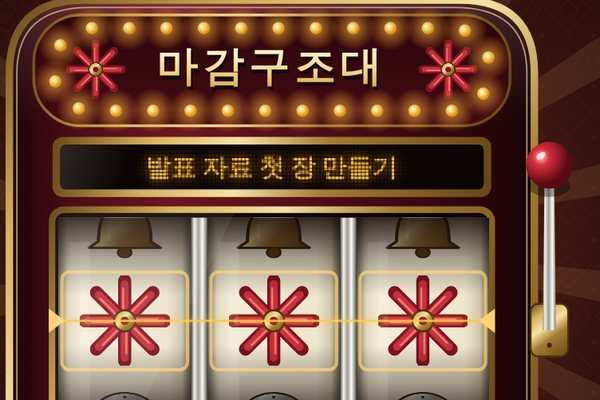
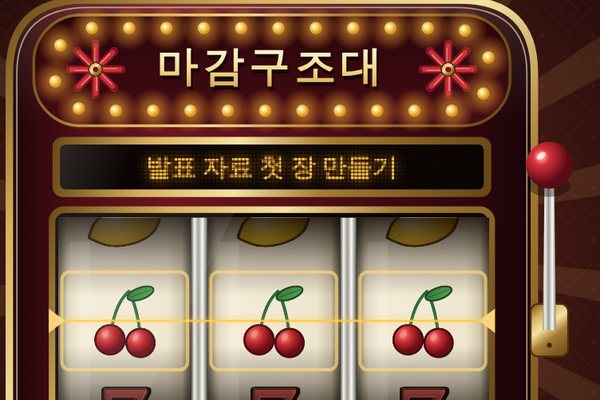
Replace slot reel symbols with cherry, lemon, grape, watermelon, bell and seven
Claude-Session: https://claude.ai/code/session_01SQ2MVumb5cP1juw9G6wjPu

diff --git a/slot.js b/slot.js
@@ -9,7 +9,7 @@
   const SERIF = '"Noto Serif KR","AppleMyungjo","Batang",Georgia,serif';
   // 기계 하나의 설계 좌표: 캐비닛 중심이 x=0, 오른쪽 레버까지 포함해 가로 -290~350.
   const MW = 640, MH = 610, MID = 30;
-  const N = 7;           // 릴 한 바퀴의 그림 수
+  const N = 6;           // 릴 한 바퀴의 그림 수
   const CELL = 110;      // 그림 하나의 높이
   const REEL_Y = 342;    // 당첨선 높이
   const TS = .12, STOPS = [.44, .56, .68];
@@ -28,63 +28,84 @@
   const brass = (c, x0, y0, x1, y1) => lin(c, x0, y0, x1, y1, [[0, '#6a4917'], [.22, '#d8b25e'], [.42, '#f6e2a3'], [.62, '#a57b33'], [1, '#664616']]);
   const chrome = (c, x0, y0, x1, y1) => lin(c, x0, y0, x1, y1, [[0, '#5b5b58'], [.2, '#f3f1ea'], [.45, '#9c9a93'], [.7, '#fbfaf4'], [1, '#62615c']]);
 
-  /* ---------- 릴 그림 (직접 그린 오리지널 도안) ---------- */
-  function drawSymbol(c, i) {
-    c.lineJoin = 'round'; c.lineCap = 'round';
-    if (i === 0) { // 마감구조대 별: 당첨 그림
-      for (let k = 0; k < 8; k++) {
-        const a = k * Math.PI / 4; c.save(); c.rotate(a);
-        c.strokeStyle = '#7d1320'; c.lineWidth = 25; c.beginPath(); c.moveTo(0, -8); c.lineTo(0, -76); c.stroke();
-        c.strokeStyle = '#c7303c'; c.lineWidth = 15; c.beginPath(); c.moveTo(0, -10); c.lineTo(0, -70); c.stroke();
-        c.strokeStyle = '#ee7a6e'; c.lineWidth = 4; c.beginPath(); c.moveTo(-3, -18); c.lineTo(-3, -62); c.stroke(); c.restore();
-      }
-      c.fillStyle = brass(c, -22, -22, 22, 22); c.beginPath(); c.arc(0, 0, 20, 0, TAU); c.fill();
-      c.strokeStyle = '#4a300c'; c.lineWidth = 4; c.stroke();
-      c.fillStyle = '#7d1320'; c.beginPath(); c.arc(0, 0, 8, 0, TAU); c.fill();
-    } else if (i === 1) { // 종
+  /* ---------- 릴 그림 (직접 그린 오리지널 도안): 체리·레몬·포도·수박·종·7 ---------- */
+  const OUT = '#2b1410';
+  function outline(c, w, col) { c.strokeStyle = col || OUT; c.lineWidth = w; c.stroke(); }
+  function leaf(c, x, y, rx, ry, rot) {
+    c.fillStyle = lin(c, x - rx, y, x + rx, y, [[0, '#2f7a3b'], [1, '#5aa854']]); c.beginPath(); c.ellipse(x, y, rx, ry, rot, 0, TAU); c.fill(); outline(c, 3.5, '#1c4a26');
+    c.strokeStyle = '#1c4a2688'; c.lineWidth = 2; c.beginPath(); c.moveTo(x - rx * Math.cos(rot) * .8, y - rx * Math.sin(rot) * .8); c.lineTo(x + rx * Math.cos(rot) * .8, y + rx * Math.sin(rot) * .8); c.stroke();
+  }
+  const SEVEN = 5;
+  const SYMBOLS = [
+    c => { // 체리
+      c.strokeStyle = '#2f6a3a'; c.lineWidth = 6; c.beginPath(); c.moveTo(-26, 22); c.quadraticCurveTo(-18, -34, 8, -56); c.moveTo(30, 30); c.quadraticCurveTo(24, -26, 8, -56); c.stroke();
+      leaf(c, 30, -52, 26, 11, -.35);
+      [[-28, 36, 28], [30, 42, 27]].forEach(([x, y, r]) => {
+        c.fillStyle = rad(c, x - 9, y - 10, 2, r + 4, [[0, '#f2766a'], [.5, '#c0262e'], [1, '#6d0e18']]); c.beginPath(); c.arc(x, y, r, 0, TAU); c.fill();
+        outline(c, 4, '#4b0911'); c.fillStyle = '#fff3'; c.beginPath(); c.ellipse(x - 9, y - 11, 6, 9, .5, 0, TAU); c.fill();
+      });
+    },
+    c => { // 레몬
+      c.save(); c.rotate(-.4);
+      c.beginPath(); c.moveTo(-74, 0); c.quadraticCurveTo(-68, -10, -58, -22); c.bezierCurveTo(-34, -54, 34, -54, 58, -22); c.quadraticCurveTo(68, -10, 74, 0);
+      c.quadraticCurveTo(68, 10, 58, 22); c.bezierCurveTo(34, 54, -34, 54, -58, 22); c.quadraticCurveTo(-68, 10, -74, 0); c.closePath();
+      c.fillStyle = rad(c, -14, -18, 4, 84, [[0, '#fff6a8'], [.45, '#f4c931'], [1, '#b6830f']]); c.fill(); outline(c, 5.5, '#4e3706');
+      c.fillStyle = '#fff9'; c.beginPath(); c.ellipse(-16, -24, 22, 7, -.15, 0, TAU); c.fill();
+      c.fillStyle = '#b6830f66'; [[-30, 10], [10, 18], [34, -2], [-6, -2], [46, 16], [-48, 2]].forEach(([x, y]) => { c.beginPath(); c.arc(x, y, 2, 0, TAU); c.fill(); });
+      c.restore(); leaf(c, 36, -48, 25, 10, -.5);
+    },
+    c => { // 포도
+      c.strokeStyle = '#5a3a1c'; c.lineWidth = 6; c.beginPath(); c.moveTo(2, -30); c.quadraticCurveTo(0, -52, 14, -64); c.stroke();
+      leaf(c, 38, -60, 26, 11, -.3);
+      [[-32, -8], [0, -12], [32, -8], [-16, 16], [16, 16], [0, 42]].forEach(([x, y]) => {
+        c.fillStyle = rad(c, x - 6, y - 7, 2, 24, [[0, '#d7a8f0'], [.45, '#8a45b8'], [1, '#3d1860']]); c.beginPath(); c.arc(x, y, 20, 0, TAU); c.fill(); outline(c, 3.5, '#2a0f45');
+        c.fillStyle = '#fff7'; c.beginPath(); c.ellipse(x - 7, y - 8, 5, 3.5, -.6, 0, TAU); c.fill();
+      });
+    },
+    c => { // 수박
+      const cy = -30, R = 74;
+      c.beginPath(); c.moveTo(-R, cy); c.arc(0, cy, R, Math.PI, 0, true); c.closePath();
+      c.fillStyle = lin(c, 0, cy, 0, cy + R, [[0, '#4aa04b'], [1, '#1f5f2c']]); c.fill(); outline(c, 6, '#173f1f');
+      c.beginPath(); c.moveTo(-R + 9, cy); c.arc(0, cy, R - 9, Math.PI, 0, true); c.closePath(); c.fillStyle = '#eef0c8'; c.fill();
+      c.beginPath(); c.moveTo(-R + 17, cy); c.arc(0, cy, R - 17, Math.PI, 0, true); c.closePath();
+      c.fillStyle = rad(c, 0, cy, 4, R, [[0, '#ff8a7a'], [.55, '#e8344a'], [1, '#b3182f']]); c.fill();
+      c.fillStyle = '#20100d'; [[-36, -4, .5], [-12, 14, .2], [14, -6, -.2], [30, 8, -.5], [-8, -16, .1]].forEach(([x, y, r]) => { c.beginPath(); c.ellipse(x, y, 4.5, 8, r, 0, TAU); c.fill(); });
+      c.strokeStyle = '#ffffff55'; c.lineWidth = 5; c.beginPath(); c.arc(0, cy, R - 3, Math.PI * .66, Math.PI * .86); c.stroke();
+    },
+    c => { // 종
       c.beginPath(); c.moveTo(-50, 38); c.bezierCurveTo(-50, -8, -42, -56, 0, -58); c.bezierCurveTo(42, -56, 50, -8, 50, 38);
       c.lineTo(68, 54); c.lineTo(-68, 54); c.closePath();
       c.fillStyle = brass(c, -60, -50, 60, 50); c.fill(); c.strokeStyle = '#3d2a10'; c.lineWidth = 6; c.stroke();
       c.strokeStyle = '#fff3c8aa'; c.lineWidth = 7; c.beginPath(); c.moveTo(-30, 28); c.bezierCurveTo(-30, -8, -26, -36, -8, -44); c.stroke();
       c.fillStyle = '#5a3d14'; c.beginPath(); c.arc(0, 66, 13, 0, TAU); c.fill(); c.strokeStyle = '#3d2a10'; c.lineWidth = 4; c.stroke();
       c.beginPath(); c.arc(0, -66, 8, 0, TAU); c.fillStyle = '#c99c46'; c.fill(); c.stroke();
-    } else if (i === 2) { // 보석
-      const P = [[-36, -46], [36, -46], [70, -12], [0, 64], [-70, -12]];
-      c.beginPath(); P.forEach(([x, y], k) => k ? c.lineTo(x, y) : c.moveTo(x, y)); c.closePath();
-      c.fillStyle = lin(c, -60, -46, 60, 64, [[0, '#4fc7b5'], [.5, '#1b8576'], [1, '#0b4a43']]); c.fill();
-      c.fillStyle = '#a5efe2aa'; c.beginPath(); c.moveTo(-36, -46); c.lineTo(36, -46); c.lineTo(20, -12); c.lineTo(-20, -12); c.closePath(); c.fill();
-      c.strokeStyle = '#06322e'; c.lineWidth = 3.5; c.beginPath(); c.moveTo(-70, -12); c.lineTo(70, -12); c.moveTo(-36, -46); c.lineTo(-20, -12); c.lineTo(0, 64); c.moveTo(36, -46); c.lineTo(20, -12); c.lineTo(0, 64); c.stroke();
-      c.beginPath(); P.forEach(([x, y], k) => k ? c.lineTo(x, y) : c.moveTo(x, y)); c.closePath(); c.lineWidth = 6; c.strokeStyle = '#0a3d38'; c.stroke();
-    } else if (i === 3) { // 체리
-      c.strokeStyle = '#2f6a3a'; c.lineWidth = 6; c.beginPath(); c.moveTo(-26, 22); c.quadraticCurveTo(-18, -34, 8, -56); c.moveTo(30, 30); c.quadraticCurveTo(24, -26, 8, -56); c.stroke();
-      c.fillStyle = '#3b8a49'; c.beginPath(); c.ellipse(30, -52, 26, 11, -.35, 0, TAU); c.fill(); c.strokeStyle = '#1d4a28'; c.lineWidth = 3.5; c.stroke();
-      [[-28, 36, 28], [30, 42, 27]].forEach(([x, y, r]) => {
-        c.fillStyle = rad(c, x - 9, y - 10, 2, r + 4, [[0, '#f2766a'], [.5, '#c0262e'], [1, '#6d0e18']]); c.beginPath(); c.arc(x, y, r, 0, TAU); c.fill();
-        c.strokeStyle = '#4b0911'; c.lineWidth = 4; c.stroke(); c.fillStyle = '#fff3'; c.beginPath(); c.ellipse(x - 9, y - 11, 6, 9, .5, 0, TAU); c.fill();
-      });
-    } else if (i === 4) { // 바
-      rr(c, -68, -34, 136, 68, 10); c.fillStyle = '#17100d'; c.fill(); c.lineWidth = 6; c.strokeStyle = brass(c, -68, -34, 68, 34); c.stroke();
-      c.fillStyle = '#efe6cf'; c.font = `900 46px ${SANS}`; c.textAlign = 'center'; c.textBaseline = 'middle';
-      if ('letterSpacing' in c) c.letterSpacing = '5px'; c.fillText('BAR', 2, 3); if ('letterSpacing' in c) c.letterSpacing = '0px';
-    } else if (i === 5) { // 7
-      c.font = `900 150px ${SERIF}`; c.textAlign = 'center'; c.textBaseline = 'middle';
-      c.lineWidth = 14; c.strokeStyle = '#2a0b0c'; c.strokeText('7', 0, 8);
-      c.fillStyle = lin(c, 0, -60, 0, 70, [[0, '#f1655a'], [.5, '#b81f2b'], [1, '#6d0f19']]); c.fillText('7', 0, 8);
-      c.lineWidth = 3; c.strokeStyle = '#ffcfa655'; c.strokeText('7', -2, 5);
-    } else { // 말굽
-      c.lineCap = 'butt'; c.lineWidth = 26; c.strokeStyle = '#2a2724'; c.beginPath(); c.arc(0, 6, 52, Math.PI * .76, Math.PI * 2.24); c.stroke();
-      c.lineWidth = 17; c.strokeStyle = chrome(c, -60, -50, 60, 50); c.beginPath(); c.arc(0, 6, 52, Math.PI * .76, Math.PI * 2.24); c.stroke();
-      c.fillStyle = '#2a2724';
-      for (let k = 0; k < 5; k++) { const a = Math.PI * (.96 + k * .27); c.beginPath(); c.arc(Math.cos(a) * 52, 6 + Math.sin(a) * 52, 3.2, 0, TAU); c.fill(); }
+    },
+    c => { // 7
+      c.font = `900 188px ${SERIF}`; c.textAlign = 'center'; c.textBaseline = 'middle';
+      c.lineWidth = 16; c.strokeStyle = '#2a0b0c'; c.strokeText('7', 0, 10);
+      c.fillStyle = lin(c, 0, -70, 0, 84, [[0, '#f1655a'], [.5, '#b81f2b'], [1, '#6d0f19']]); c.fillText('7', 0, 10);
+      c.lineWidth = 3; c.strokeStyle = '#ffcfa655'; c.strokeText('7', -2, 7);
     }
+  ];
+  function drawStar(c) { // 마퀴 장식으로만 쓰는 마감구조대 별
+    for (let k = 0; k < 8; k++) {
+      c.save(); c.rotate(k * Math.PI / 4);
+      c.strokeStyle = '#7d1320'; c.lineWidth = 25; c.beginPath(); c.moveTo(0, -8); c.lineTo(0, -76); c.stroke();
+      c.strokeStyle = '#c7303c'; c.lineWidth = 15; c.beginPath(); c.moveTo(0, -10); c.lineTo(0, -70); c.stroke();
+      c.strokeStyle = '#ee7a6e'; c.lineWidth = 4; c.beginPath(); c.moveTo(-3, -18); c.lineTo(-3, -62); c.stroke(); c.restore();
+    }
+    c.fillStyle = brass(c, -22, -22, 22, 22); c.beginPath(); c.arc(0, 0, 20, 0, TAU); c.fill();
+    c.strokeStyle = '#4a300c'; c.lineWidth = 4; c.stroke();
+    c.fillStyle = '#7d1320'; c.beginPath(); c.arc(0, 0, 8, 0, TAU); c.fill();
   }
   let sprites = null;
   function getSprites() {
     if (sprites) return sprites;
-    sprites = Array.from({ length: N }, (_, i) => {
+    const make = fn => {
       const cv = document.createElement('canvas'); cv.width = cv.height = 240;
-      const c = cv.getContext('2d'); c.translate(120, 120); c.scale(1.4, 1.4); drawSymbol(c, i); return cv;
-    });
+      const c = cv.getContext('2d'); c.translate(120, 120); c.scale(1.4, 1.4); c.lineJoin = 'round'; c.lineCap = 'round'; fn(c); return cv;
+    };
+    sprites = { reel: SYMBOLS.map(make), star: make(drawStar) };
     return sprites;
   }
 
@@ -120,10 +141,11 @@
     let lastMeasure = -1, w = 0, h = 0, raf = null, stopped = false, ready = false, audio = null, phase = -1, lastNow = 0, coinTick = 0, carpet = null, ledTile = null;
     const start = performance.now();
     const seed = Math.random() * 1000, rnd = i => { const x = Math.sin(i * 127.1 + seed) * 43758.5453; return x - Math.floor(x); };
-    const SP = getSprites();
+    const ART = getSprites(), SP = ART.reel, STAR = ART.star;
 
+    const target = Math.floor(rnd(9) * SEVEN); // 이번에 맞출 그림: 7은 제외한 과일·종 중 하나
     const reels = [0, 1, 2].map(k => {
-      const p0 = Math.floor(rnd(k + 5) * N), D = N * (3 + k * 1) + ((N - p0 % N) % N);
+      const p0 = Math.floor(rnd(k + 5) * N), D = N * (3 + k * 1) + ((target - p0 % N + N) % N);
       return { p0, D, ts: TS + k * .012, te: STOPS[k], p: p0, spd: 0, lastIdx: p0, stopped: false };
     });
     const coins = []; let coinsMade = 0;
@@ -232,8 +254,8 @@
       /* 상단 마퀴 */
       rr(c, -254, 16, 508, 118, 50); c.fillStyle = lin(c, 0, 16, 0, 134, [[0, '#2a050a'], [1, '#430c13']]); c.fill();
       c.lineWidth = 3; c.strokeStyle = brass(c, -254, 16, 254, 134); c.stroke();
-      c.save(); c.translate(-188, 74); c.scale(.26, .26); c.drawImage(SP[0], -120, -120); c.restore();
-      c.save(); c.translate(188, 74); c.scale(.26, .26); c.drawImage(SP[0], -120, -120); c.restore();
+      c.save(); c.translate(-188, 74); c.scale(.26, .26); c.drawImage(STAR, -120, -120); c.restore();
+      c.save(); c.translate(188, 74); c.scale(.26, .26); c.drawImage(STAR, -120, -120); c.restore();
       c.textAlign = 'center'; c.textBaseline = 'middle'; c.font = `800 44px ${SERIF}`;
       if ('letterSpacing' in c) c.letterSpacing = '5px';
       c.fillStyle = 'rgba(0,0,0,.55)'; c.fillText('마감구조대', 2, 78);

diff --git a/README.md b/README.md
@@ -119,7 +119,7 @@
 
 ### 유료 테마 07 · 잭팟 슬롯
 70년대 슬롯 캐비닛을 모티브로 한 오리지널 연출입니다. 붉은 래커 본체, 황동 테두리, 전구 마퀴, 점으로 이루어진 호박색 표시창, 유리 반사가 있는 릴로 구성했습니다.
-- 레버를 당기면 세 릴이 가속·등속·감속하며 차례로 멈추고, 마지막에 마감구조대 별 세 개가 맞아 ‘당첨’됩니다. 이때 전구가 번쩍이고 코인이 쏟아집니다.
+- 레버를 당기면 세 릴이 가속·등속·감속하며 차례로 멈추고, 마지막에 같은 그림 세 개가 맞아 ‘당첨’됩니다. 릴 그림은 체리·레몬·포도·수박·종·7이며 모두 코드로 그린 오리지널 도안입니다. 이때 전구가 번쩍이고 코인이 쏟아집니다.
 - 표시창은 돌아가는 동안 내 할 일 제목을 훑다가 당첨 순간 선택된 일로 멈춥니다. 결과는 기계 아래로 인쇄되어 나오는 종이 티켓으로 보여줍니다.
 - 3.5초 전체 연출 또는 1초 짧은 연출, 선택형 효과음(기본 끔)을 지원합니다. 건너뛰기, 바로 시작, 시스템 동작 줄이기, 다시 뽑기, 5분 시작과 전용 집중 화면을 지원합니다.
-- 릴은 연출일 뿐이며 항상 별 세 개로 멈춥니다. 우선순위와 추첨 확률은 기존 엔진이 정하고, 실제 도박·결제·금전 요소는 없습니다. 그림과 소리는 모두 코드로 그리며 외부 이미지·API가 필요 없습니다.
+- 릴은 연출일 뿐이며 7을 뺀 과일·종 중 하나로 항상 세 칸이 맞게 멈춥니다. 우선순위와 추첨 확률은 기존 엔진이 정하고, 실제 도박·결제·금전 요소는 없습니다. 그림과 소리는 모두 코드로 그리며 외부 이미지·API가 필요 없습니다.
